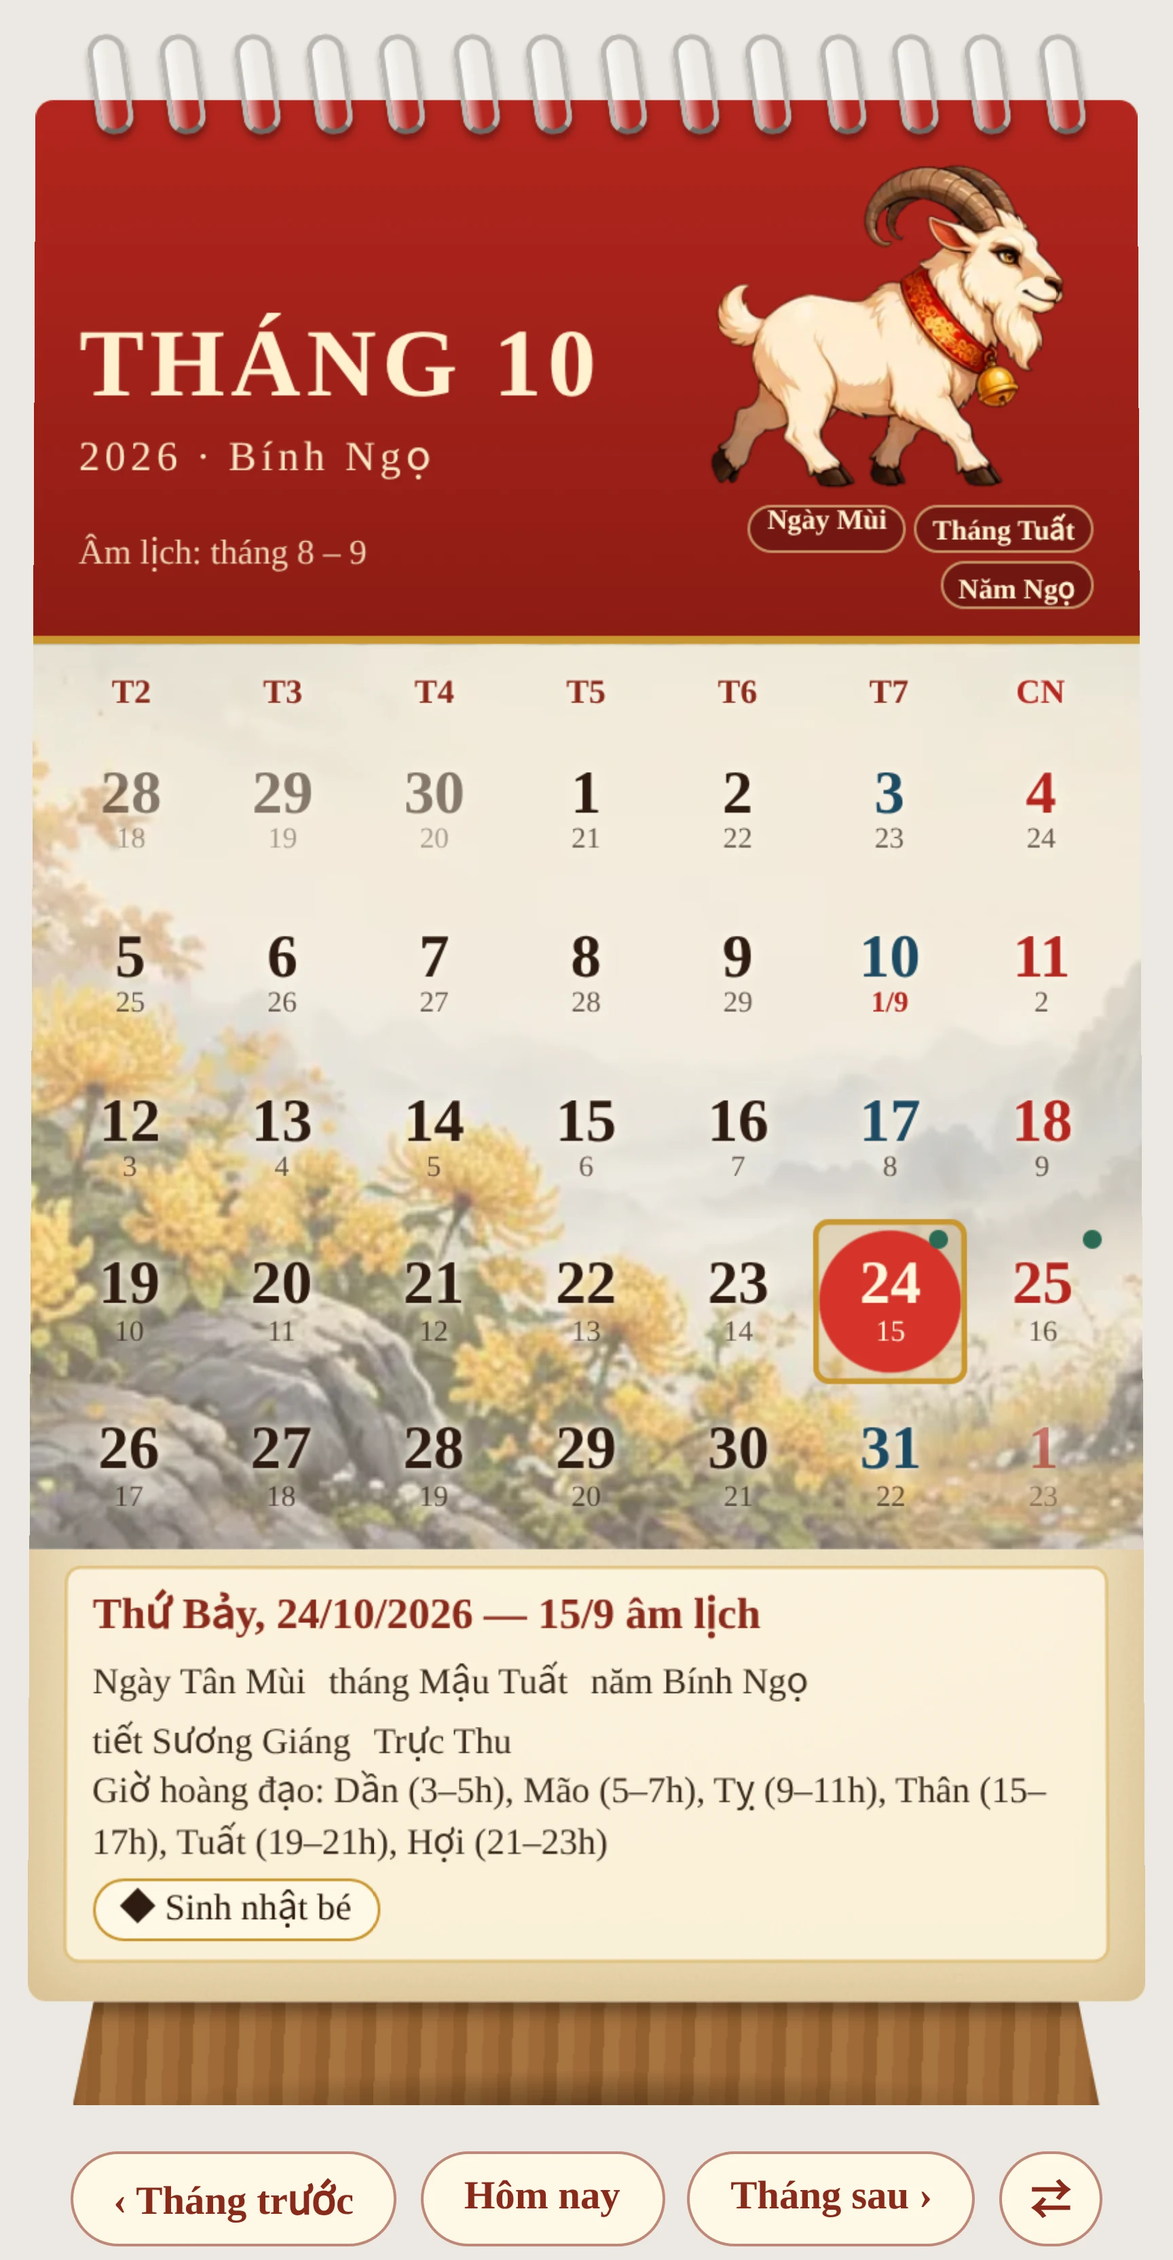
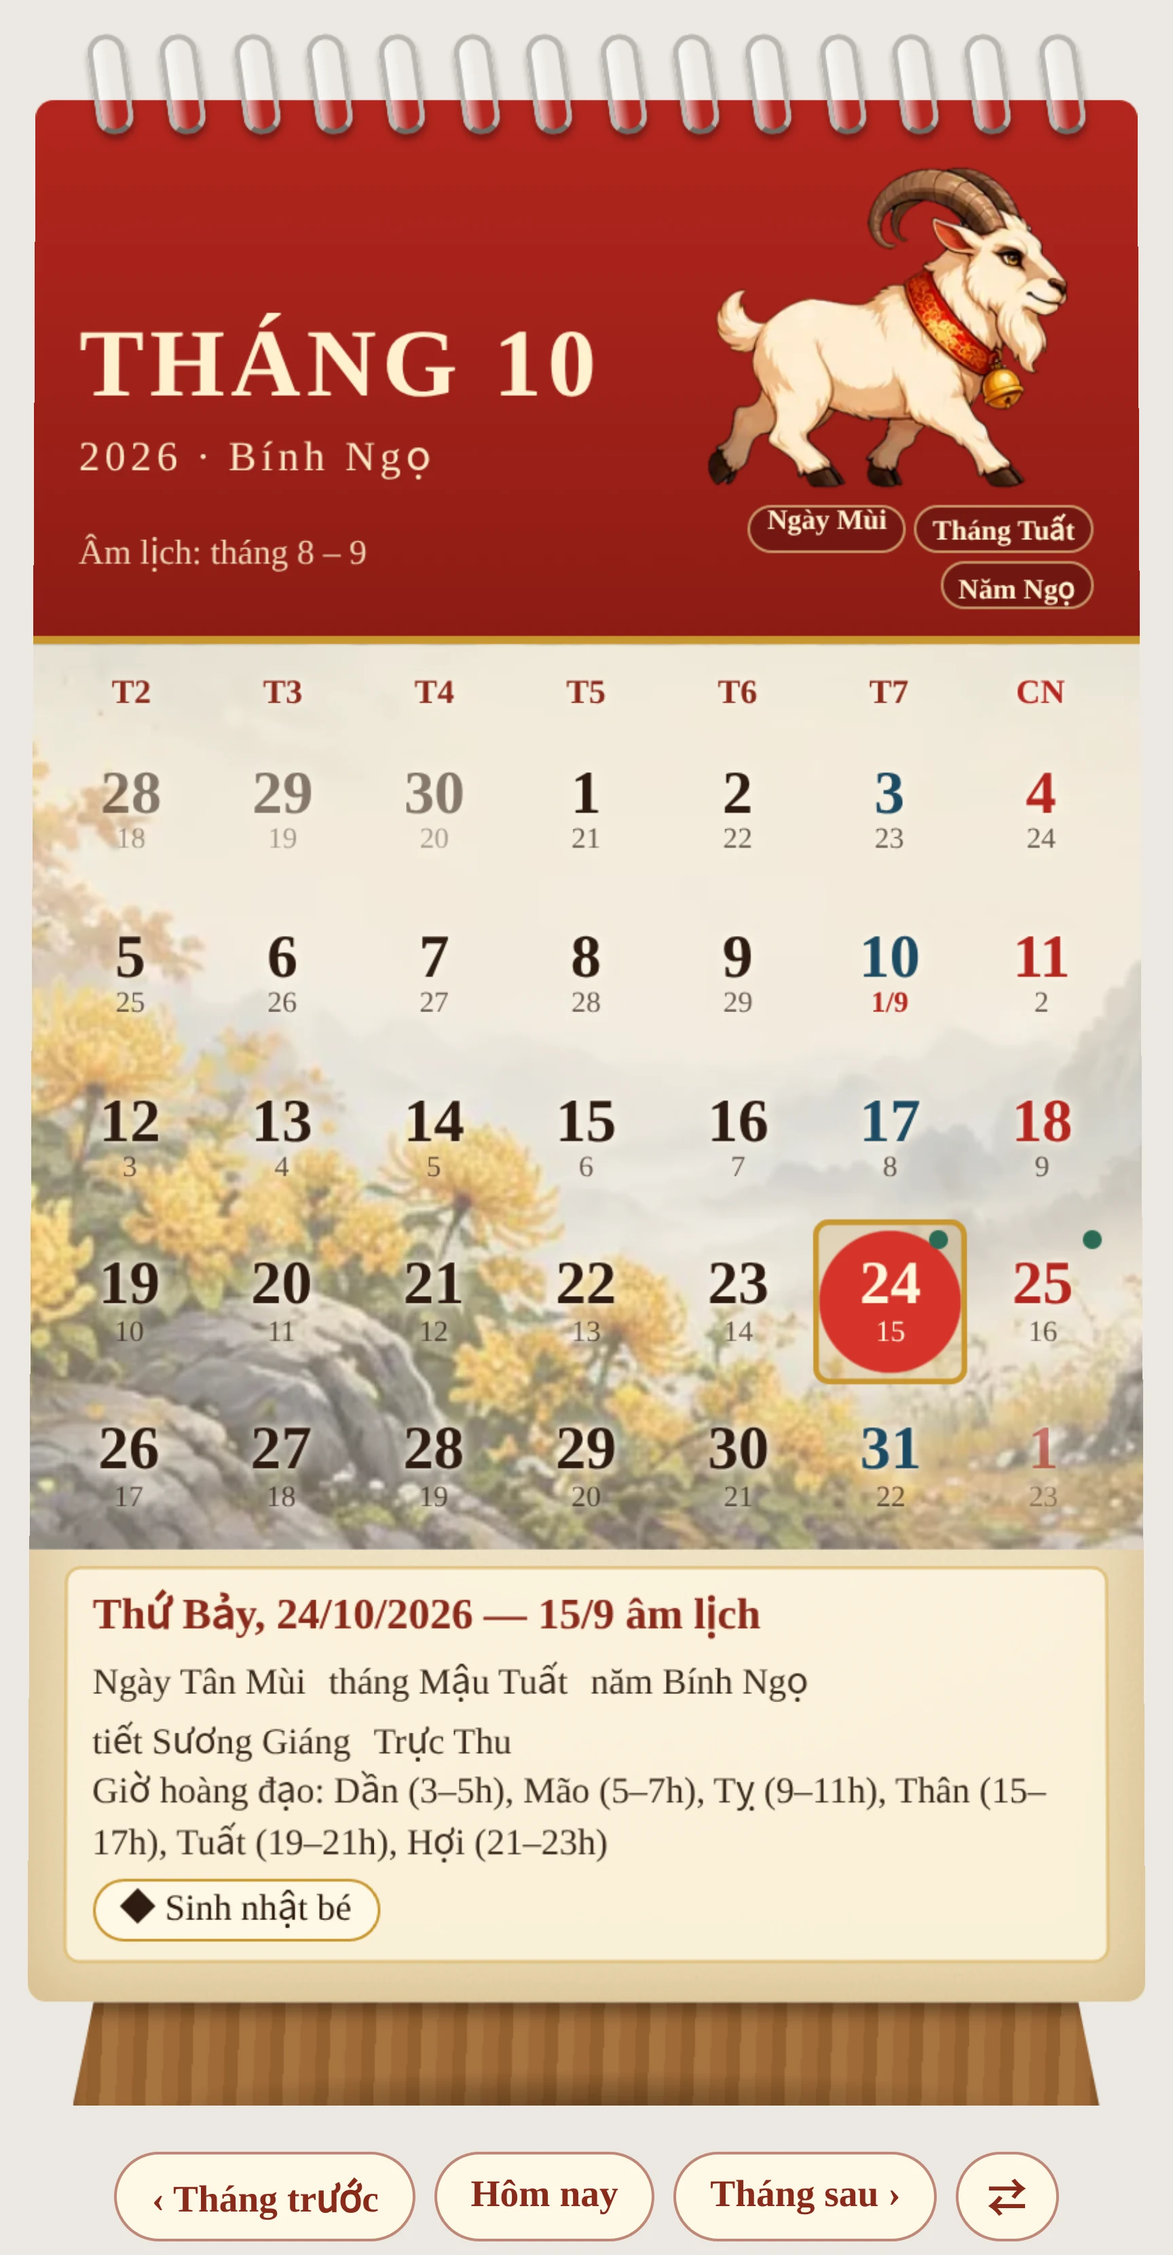
Thẻ: chiều cao tờ co giãn theo nội dung (hết chồng chữ trên điện thoại), con vật bước chậm hơn và nghỉ có thời gian rõ ràng
- Tờ bloc không còn tỉ lệ cố định: phông rộng hơn thì tờ cao hơn thay vì tràn/cắt ca dao.
- Nhãn Xuất hành tự rộng theo chữ; ba huy hiệu tự xuống dòng; số ngày tách khỏi dòng âm lịch; hàng nút tự xuống dòng.
- Tốc độ bước 5–9 khung/giây (trước 9–14), thêm chay_giay (6), nghi_giay (25), toc_do (1); lúc nghỉ chỉ còn nhịp thở nhẹ, vạch đường chạy dừng.
- Đáy lớp phủ ảnh nền đậm hơn để dòng âm lịch rõ trên phần đá.
- Đã đo bố cục ở 320/360/390 px: không tràn, không đè.

Claude-Session: https://claude.ai/code/session_01RuPofRMvzvZPPPoDv3dRha

diff --git a/custom_components/lich_viet/frontend/lich-bloc-xua-card.js b/custom_components/lich_viet/frontend/lich-bloc-xua-card.js
@@ -11,9 +11,10 @@ import { CHI_KHOA, TEN_THU, THU_CSS, veConGiap } from './lich-bloc-xua-thu.js';
 
 const THU_ANH = {
   // mọi sprite sheet: lưới cot × hang khung, phát theo thứ tự; fps là tốc độ khi «chạy»
-  ngo: { cot: 4, hang: 3, fps: 14 }, ty: { cot: 4, hang: 3, fps: 10 }, suu: { cot: 4, hang: 3, fps: 9 }, dan: { cot: 4, hang: 3, fps: 10 },
-  mao: { cot: 4, hang: 3, fps: 10 }, thin: { cot: 4, hang: 3, fps: 10 }, ran: { cot: 4, hang: 3, fps: 10 }, mui: { cot: 4, hang: 3, fps: 10 },
-  than: { cot: 4, hang: 3, fps: 10 }, ga: { cot: 4, hang: 3, fps: 10 }, cho: { cot: 4, hang: 3, fps: 11 }, heo: { cot: 4, hang: 3, fps: 10 },
+  // fps = số khung mỗi giây; chu kỳ 12 khung = 12/fps giây (đi bộ ~2 giây một vòng, ngựa phi ~1,3 giây). Có thể nhân thêm bằng cấu hình toc_do.
+  ngo: { cot: 4, hang: 3, fps: 9 }, ty: { cot: 4, hang: 3, fps: 6 }, suu: { cot: 4, hang: 3, fps: 5 }, dan: { cot: 4, hang: 3, fps: 6 },
+  mao: { cot: 4, hang: 3, fps: 6 }, thin: { cot: 4, hang: 3, fps: 6 }, ran: { cot: 4, hang: 3, fps: 6 }, mui: { cot: 4, hang: 3, fps: 6 },
+  than: { cot: 4, hang: 3, fps: 6 }, ga: { cot: 4, hang: 3, fps: 6 }, cho: { cot: 4, hang: 3, fps: 6 }, heo: { cot: 4, hang: 3, fps: 6 },
 };
 const GOC = new URL("./thu/", import.meta.url).href;
 const GOC_NEN = new URL("./nen/", import.meta.url).href;
@@ -68,6 +69,7 @@ function keyframesSprite(ten, cot, hang) {
   return s + "}";
 }
 const SPRITE_CSS = Object.entries(THU_ANH).map(([k, v]) => keyframesSprite("sp-" + k, v.cot, v.hang)).join("\n") + `
+.sp:not(.chay){animation:sp-tho 4.4s ease-in-out infinite;transform-origin:50% 100%}
 .sp{display:block;width:100%;background-repeat:no-repeat;background-position:0 0;image-rendering:auto}
 .sp.chay{animation-name:var(--sp);animation-duration:var(--sd);animation-iteration-count:infinite;animation-timing-function:step-end}
 .thu-hop{position:relative;width:100%}
@@ -86,11 +88,11 @@ function dongSprite(khoa) {
   }
   return spriteCache.get(khoa);
 }
-async function hinhThu(khoa, chay) {
+async function hinhThu(khoa, chay, heSo = 1) {
   const sp = await dongSprite(khoa);
   if (sp) {
     const c = THU_ANH[khoa], n = c.cot * c.hang;
-    return `<div class="sp${chay ? " chay" : ""}" style="aspect-ratio:${sp.rong}/${sp.cao};background-image:url('${GOC}${khoa}.webp');background-size:${c.cot * 100}% ${c.hang * 100}%;--sp:sp-${khoa};--sd:${(n / c.fps).toFixed(3)}s" role="img" aria-label="${esc(TEN_THU[khoa] || "")}"></div>`;
+    return `<div class="sp${chay ? " chay" : ""}" style="aspect-ratio:${sp.rong}/${sp.cao};background-image:url('${GOC}${khoa}.webp');background-size:${c.cot * 100}% ${c.hang * 100}%;--sp:sp-${khoa};--sd:${(n / (c.fps * (+heSo > 0 ? +heSo : 1))).toFixed(3)}s" role="img" aria-label="${esc(TEN_THU[khoa] || "")}"></div>`;
   }
   return `<div class="thu ${chay ? "di" : "nghi"}">${veConGiap(khoa, "u" + ++_uid)}</div>`;
 }
@@ -109,22 +111,22 @@ button{font:inherit;color:inherit}
 /* ================= BLOC ================= */
 .chong{position:relative;perspective:1500px;perspective-origin:50% 8%;padding-top:4.2cqw}
 .chong::before{content:"";position:absolute;left:3cqw;right:3cqw;bottom:-2.4cqw;height:5cqw;border-radius:50%;background:radial-gradient(ellipse at center,rgba(60,35,10,.38),rgba(60,35,10,0) 70%);z-index:0}
-.to,.to-ao{position:relative;width:100%;aspect-ratio:360/560;border-radius:1.4cqw 1.4cqw 2.2cqw 2.2cqw;overflow:hidden}
+.to{position:relative;width:100%;min-height:155.6cqw;border-radius:1.4cqw 1.4cqw 2.2cqw 2.2cqw;overflow:hidden}
 .nen-to{position:relative;z-index:1;border-radius:1.4cqw 1.4cqw 2.2cqw 2.2cqw;box-shadow:0 .6cqw 0 #e6d6ae,0 1.2cqw 0 #dccb9d,0 1.8cqw 0 #d1bf8f,0 2.4cqw 3cqw rgba(50,28,8,.35)}
-.lop{position:absolute;inset:0}
-.lop.duoi{z-index:1}.lop.tren{z-index:3;transform-origin:50% 0;will-change:transform}
-.lop .to{position:absolute;inset:0;height:100%;aspect-ratio:auto}
+.lop.duoi{position:absolute;inset:0;overflow:hidden;z-index:1;border-radius:1.4cqw 1.4cqw 2.2cqw 2.2cqw}
+.lop.tren{position:relative;z-index:3;transform-origin:50% 0;will-change:transform}
+.lop.duoi .to{position:absolute;inset:0;min-height:0}
 .ghim{position:absolute;z-index:6;top:0;left:0;right:0;height:5.6cqw;border-radius:1.4cqw 1.4cqw 0 0;background:linear-gradient(180deg,#8f2318,#6e1810 70%,#561009);box-shadow:0 .5cqw 1cqw rgba(0,0,0,.35)}
 .ghim::before,.ghim::after{content:"";position:absolute;top:1cqw;width:3.2cqw;height:3.2cqw;border-radius:50%;background:radial-gradient(circle at 40% 35%,#2b1208,#000 70%);box-shadow:inset 0 .3cqw .6cqw rgba(0,0,0,.8),0 .2cqw 0 rgba(255,255,255,.18)}
 .ghim::before{left:9cqw}.ghim::after{right:9cqw}
 .ghim i{position:absolute;left:50%;top:1.6cqw;width:14cqw;height:2cqw;margin-left:-7cqw;border-radius:1cqw;background:linear-gradient(180deg,#e9e4da,#9c968a);box-shadow:0 .3cqw .5cqw rgba(0,0,0,.4)}
 .xepto{position:absolute;inset:0;z-index:2;border-radius:inherit;pointer-events:none;background:linear-gradient(180deg,rgba(40,20,5,.0),rgba(40,20,5,.0));opacity:0}
-.noidung{position:absolute;inset:0;padding:5.8cqw 4.6cqw 4cqw;display:flex;flex-direction:column;justify-content:space-between;gap:.8cqw}
+.noidung{position:relative;min-height:155.6cqw;padding:5.8cqw 4.6cqw 4cqw;display:flex;flex-direction:column;justify-content:space-between;gap:.8cqw}
 .vien-trong{position:absolute;inset:2.6cqw;border:.5cqw double rgba(138,42,28,.55);border-radius:1cqw;pointer-events:none}
-.dau-to{display:flex;justify-content:space-between;align-items:baseline;font-weight:700;letter-spacing:.14em;color:var(--vien);font-size:4.3cqw;text-transform:uppercase;padding:0 1cqw;border-bottom:.35cqw dotted rgba(138,42,28,.5);padding-bottom:1.1cqw}
+.dau-to{display:flex;justify-content:space-between;align-items:baseline;font-weight:700;letter-spacing:.07em;color:var(--vien);font-size:4.1cqw;text-transform:uppercase;padding:0 1cqw;border-bottom:.35cqw dotted rgba(138,42,28,.5);padding-bottom:1.1cqw}
 .dau-to b{font-size:5.4cqw;letter-spacing:.06em}
 .thu-ngay{text-align:center;font-weight:800;letter-spacing:.34em;color:var(--muc);font-size:5.6cqw;margin-top:.6cqw;text-transform:uppercase}
-.so{text-align:center;font-family:"Playfair Display","Noto Serif Display","Bodoni MT",Georgia,serif;font-weight:900;font-size:29cqw;line-height:30cqw;height:30cqw;font-variant-numeric:lining-nums;color:#241710;text-shadow:0 .5cqw 0 rgba(255,255,255,.55),0 -.2cqw 0 rgba(0,0,0,.18);letter-spacing:-.02em;margin:-.4cqw 0 0}
+.so{text-align:center;font-family:"Playfair Display","Noto Serif Display","Bodoni MT",Georgia,serif;font-weight:900;font-size:27cqw;line-height:29cqw;height:29cqw;margin-bottom:1.6cqw;font-variant-numeric:lining-nums;color:#241710;text-shadow:0 .5cqw 0 rgba(255,255,255,.55),0 -.2cqw 0 rgba(0,0,0,.18);letter-spacing:-.02em;margin:-.4cqw 0 0}
 .so.do{color:var(--do)}.so.t7{color:#1d4a63}
 .am{text-align:center;font-size:4.7cqw;font-weight:700;color:var(--vien);line-height:1.25}
 .am small{display:block;font-size:3.5cqw;font-weight:500;color:var(--muc);opacity:.85;letter-spacing:.02em}
@@ -132,20 +134,21 @@ button{font:inherit;color:inherit}
 .cot-thu{display:flex;flex-direction:column;align-self:end;min-width:0}
 .cot-thu .canh-thu{align-self:stretch}
 .phan-tren{position:relative;flex:1 1 auto;margin:-5.8cqw -4.6cqw 0;padding:7cqw 4.6cqw 1.6cqw;display:flex;flex-direction:column;justify-content:space-between;gap:.8cqw;background-color:rgba(246,237,214,.0);background-size:cover;background-position:center;border-radius:1.4cqw 1.4cqw 0 0}
-.phan-tren::before{content:"";position:absolute;inset:0;border-radius:inherit;pointer-events:none;background:linear-gradient(180deg,rgba(247,238,215,.30) 0,rgba(247,238,215,.10) 42%,rgba(247,238,215,.28) 100%)}
+.phan-tren::before{content:"";position:absolute;inset:0;border-radius:inherit;pointer-events:none;background:linear-gradient(180deg,rgba(247,238,215,.26) 0,rgba(247,238,215,.06) 40%,rgba(247,238,215,.50) 100%)}
 .phan-tren .dau-to,.phan-tren .thu-ngay,.phan-tren .am,.phan-tren .am small,.phan-tren .le{text-shadow:0 0 .7cqw rgba(252,246,232,1),0 0 1.6cqw rgba(252,246,232,.95),0 0 3cqw rgba(252,246,232,.8)}
 .phan-tren .so{text-shadow:0 0 1.2cqw rgba(252,246,232,1),0 0 3cqw rgba(252,246,232,.9),0 .5cqw 0 rgba(255,255,255,.5)}
 .phan-tren>*{position:relative}
 .khung-thu{position:relative;flex:0 0 auto;min-height:0;display:grid;grid-template-columns:44% 1fr;gap:2cqw;align-items:end;border-top:.35cqw dotted rgba(138,42,28,.45);border-bottom:.35cqw dotted rgba(138,42,28,.45);padding:1cqw 0}
 .canh-thu{position:relative;align-self:end;overflow:visible;padding-bottom:1.2cqw}
-.canh-thu::after{content:"";position:absolute;left:-4%;right:-4%;bottom:.4cqw;height:.9cqw;border-radius:99px;background:repeating-linear-gradient(90deg,rgba(90,60,20,.45) 0 5cqw,transparent 5cqw 8cqw);animation:duong 1.1s linear infinite;animation-play-state:paused;opacity:.7}
+.canh-thu::after{content:"";position:absolute;left:-4%;right:-4%;bottom:.4cqw;height:.9cqw;border-radius:99px;background:repeating-linear-gradient(90deg,rgba(90,60,20,.45) 0 5cqw,transparent 5cqw 8cqw);animation:duong 2.4s linear infinite;animation-play-state:paused;opacity:.7}
 .chay-on.dang-chay .canh-thu::after{animation-play-state:running}
 @keyframes duong{to{background-position-x:-8cqw}}
-.hh{display:flex;gap:.8cqw;justify-content:center;margin-top:.6cqw;font-size:2.5cqw;font-weight:700;color:var(--vien);white-space:nowrap}
-.hh span{background:rgba(255,248,230,.85);border:.25cqw solid rgba(200,150,46,.7);border-radius:99px;padding:.15cqw 1.4cqw}
+@keyframes sp-tho{0%,100%{transform:scale(1,1)}50%{transform:scale(1.006,1.016)}}
+.hh{display:flex;flex-wrap:wrap;gap:.8cqw;justify-content:center;margin-top:.6cqw;font-size:2.5cqw;font-weight:700;color:var(--vien);white-space:nowrap}
+.hh span{white-space:nowrap;background:rgba(255,248,230,.85);border:.25cqw solid rgba(200,150,46,.7);border-radius:99px;padding:.15cqw 1.4cqw}
 .dau-thang .hh{justify-content:flex-end;flex-wrap:wrap;color:#fff1cf}.dau-thang .hh span{background:rgba(0,0,0,.22);border-color:rgba(255,230,160,.6)}
 .thongtin{font-size:3.4cqw;line-height:1.35;display:flex;flex-direction:column;gap:.9cqw;align-self:center}
-.thongtin>div:not(.gio){display:grid;grid-template-columns:17cqw 1fr;gap:1cqw}
+.thongtin>div:not(.gio){display:grid;grid-template-columns:minmax(17cqw,max-content) minmax(0,1fr);gap:1.4cqw}
 .thongtin b{color:var(--vien);white-space:nowrap;font-weight:700}
 .gio{display:grid;grid-template-columns:repeat(6,1fr);gap:.8cqw;margin-top:.4cqw}
 .gio span{font-size:2.9cqw;text-align:center;padding:.5cqw 0;border-radius:.8cqw;background:rgba(138,42,28,.07);color:rgba(45,27,16,.45)}
@@ -164,8 +167,8 @@ button{font:inherit;color:inherit}
  background:linear-gradient(225deg,rgba(0,0,0,0) 48%,rgba(90,60,20,.28) 50%,#fff7e0 52%,#e3d2a6 100%);border-radius:0 0 0 2cqw;transition:width .25s,height .25s;opacity:.0}
 .ban:hover .canh-xe{opacity:1}
 /* thanh nút */
-.thanhnut{display:flex;justify-content:center;gap:2cqw;margin-top:4cqw}
-.nut{border:.35cqw solid rgba(138,42,28,.55);background:#fff8e6;color:var(--vien);border-radius:99px;padding:1.3cqw 3.6cqw;font-size:3.5cqw;font-weight:700;cursor:pointer;transition:transform .12s,background .2s}
+.thanhnut{display:flex;flex-wrap:wrap;justify-content:center;gap:1.6cqw;margin-top:4cqw}
+.nut{border:.35cqw solid rgba(138,42,28,.55);background:#fff8e6;color:var(--vien);border-radius:99px;padding:1.2cqw 3cqw;font-size:3.3cqw;white-space:nowrap;font-weight:700;cursor:pointer;transition:transform .12s,background .2s}
 .nut:hover{background:#ffeec2}.nut:active{transform:scale(.95)}
 .nut.nho{padding:1.3cqw 2.6cqw}
 /* ================= ĐỂ BÀN ================= */
@@ -281,11 +284,13 @@ class LichBlocXuaCard extends HTMLElement {
   _lichThu() {
     clearTimeout(this._thuTimer);
     if (this._cfg.hoat_hoa === false) return;
+    const chayMs = (+this._cfg.chay_giay > 0 ? +this._cfg.chay_giay : 6) * 1000;    // chạy bao lâu
+    const nghiMs = (+this._cfg.nghi_giay > 0 ? +this._cfg.nghi_giay : 25) * 1000;   // nghỉ bao lâu rồi chạy lại
     const doi = (chay) => {
       this._chayThu = chay; this._banEl?.classList.toggle("dang-chay", chay);
       this.shadowRoot.querySelectorAll(".sp").forEach((e) => e.classList.toggle("chay", chay));
       this.shadowRoot.querySelectorAll(".thu").forEach((e) => { e.classList.toggle("di", chay); e.classList.toggle("nghi", !chay); });
-      this._thuTimer = setTimeout(() => doi(!chay), chay ? 4200 + Math.random() * 2500 : 3500 + Math.random() * 3500);
+      this._thuTimer = setTimeout(() => doi(!chay), (chay ? chayMs : nghiMs) * (0.9 + Math.random() * 0.2));
     };
     doi(true);
   }
@@ -330,7 +335,7 @@ class LichBlocXuaCard extends HTMLElement {
   async _traTo(d) {
     const tt = thongTinNgay(d), khoa = chiThu(tt, this._cfg.con_giap), now = new Date();
     const hd = gioHienTai(tt.gio, now), laHomNay = cungNgay(d, now);
-    const hinh = await hinhThu(khoa, this._chayThu !== false);
+    const hinh = await hinhThu(khoa, this._chayThu !== false, this._cfg.toc_do);
     const gioHtml = ["Tý", "Sửu", "Dần", "Mão", "Thìn", "Tỵ", "Ngọ", "Mùi", "Thân", "Dậu", "Tuất", "Hợi"].map((chi) => {
       const g = tt.gio.find((x) => x.chi === chi); return `<span class="${g ? "hd" : ""}${g && laHomNay && hd && hd.chi === chi ? " nay" : ""}" title="${g ? `${g.tu}–${g.den}h` : ""}">${chi}</span>`;
     }).join("");
@@ -364,7 +369,7 @@ class LichBlocXuaCard extends HTMLElement {
     if (gen !== this._gen) return;
     this._goc.innerHTML = `
       <div class="chong"><div class="ghim"><i></i></div>
-        <div class="nen-to"><div class="to-ao" style="visibility:hidden"></div>
+        <div class="nen-to">
           <div class="lop duoi">${duoi}<div class="bong-to"></div></div>
           <div class="lop tren">${tren}<div class="bong-to"></div></div>
         </div><div class="canh-xe"></div></div>
@@ -442,7 +447,7 @@ class LichBlocXuaCard extends HTMLElement {
   }
   async _doiThuTheoNgay(d) {
     const dt = this._goc.querySelector(".dau-thang"), kh = dt && dt.querySelector(".canh-thu"); if (!kh) return;
-    const tt = thongTinNgay(d), html = await hinhThu(chiThu(tt, this._cfg.con_giap), this._chayThu !== false);
+    const tt = thongTinNgay(d), html = await hinhThu(chiThu(tt, this._cfg.con_giap), this._chayThu !== false, this._cfg.toc_do);
     const khoi = kh.querySelector(".khoi-thu"), hh = kh.querySelector(".hh");
     if (khoi) { khoi.innerHTML = html; khoi.classList.remove("hien"); void khoi.offsetWidth; khoi.classList.add("hien"); }
     if (hh) hh.innerHTML = huyHieu(tt);
@@ -461,7 +466,7 @@ class LichBlocXuaCard extends HTMLElement {
     const dau = new Date(y, m, 1), so = new Date(y, m + 1, 0).getDate(), lech = (dau.getDay() + 6) % 7;
     const ngayHienThu = (this._chonNgay.getMonth() === m && this._chonNgay.getFullYear() === y) ? this._chonNgay : (new Date().getMonth() === m && new Date().getFullYear() === y ? new Date() : new Date(y, m, 1));
     const ttThu = thongTinNgay(ngayHienThu);
-    const hinh = await hinhThu(chiThu(ttThu, this._cfg.con_giap), this._chayThu !== false);
+    const hinh = await hinhThu(chiThu(ttThu, this._cfg.con_giap), this._chayThu !== false, this._cfg.toc_do);
     const a1 = getLunarDate(1, m + 1, y), a2 = getLunarDate(so, m + 1, y), now = new Date();
     let cells = ""; const hdr = ["T2", "T3", "T4", "T5", "T6", "T7", "CN"].map((t, i) => `<div class="th${i === 6 ? " cn" : ""}">${t}</div>`).join("");
     for (let i = 0; i < lech; i++) { const d = congNgay(dau, i - lech); cells += this._o(d, true, now); }

diff --git a/README.md b/README.md
@@ -63,6 +63,9 @@ con_giap: ngay        # ngay | thang | nam: con giáp lấy theo ngày, tháng h
 calendar_entity: calendar.su_kien   # tuỳ chọn: hiện sự kiện trên tờ lịch
 hoat_hoa: true        # false: tắt mọi chuyển động
 nut: true             # hàng nút Hôm qua / Hôm nay / Ngày mai và đổi chế độ
+chay_giay: 6          # con vật bước trong bao nhiêu giây
+nghi_giay: 25         # rồi đứng nghỉ bao nhiêu giây trước khi bước lại
+toc_do: 1             # nhân tốc độ bước (0.5 = chậm một nửa, 2 = nhanh gấp đôi)
 rong: 380             # chiều rộng tối đa (px)
 ```
 
@@ -73,7 +76,7 @@ Dịch vụ `lich_viet.convert_date` quy đổi dương ↔ âm và trả về t
 ## Nhẹ cho dashboard
 
 - Con vật là **sprite WebP** (12 khung, 2,1 MB cho cả 12 con), phát bằng CSS; **không có vòng lặp JavaScript**. Mỗi tờ chỉ tải con và ảnh nền của ngày đó (khoảng 20 KB mỗi ảnh nền).
-- Con vật chạy vài giây rồi nghỉ; thẻ **tự dừng hẳn** khi ra khỏi màn hình hoặc tab bị ẩn; tôn trọng «giảm chuyển động» của hệ điều hành.
+- Con vật bước 6 giây rồi đứng nghỉ 25 giây (đổi bằng `chay_giay`, `nghi_giay`); lúc nghỉ chỉ còn nhịp thở rất nhẹ; thẻ **tự dừng hẳn** khi ra khỏi màn hình hoặc tab bị ẩn; tôn trọng «giảm chuyển động» của hệ điều hành.
 - Đo trong Chrome không GPU: luồng chính ~2,8% khi con vật chạy, 0,0% khi nghỉ (hai thẻ cùng lúc).
 
 ## Giới hạn đã biết
